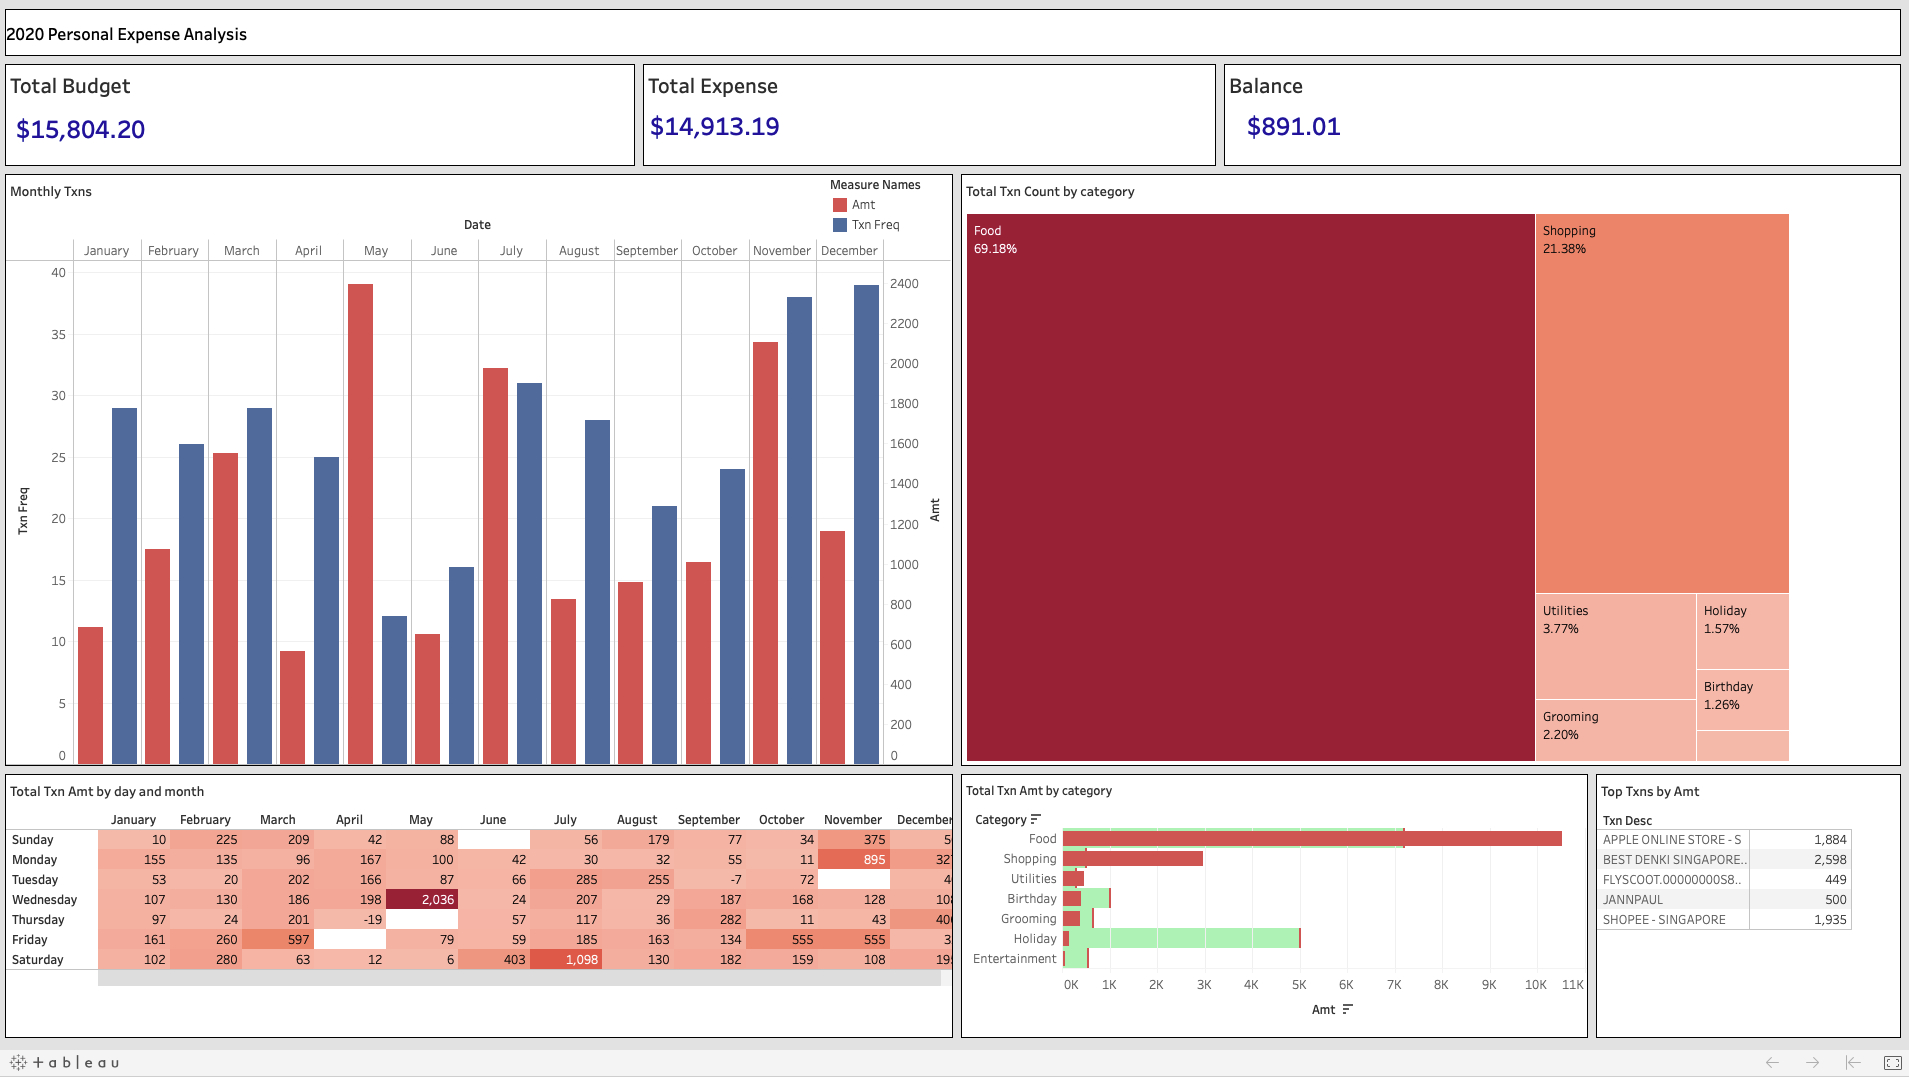
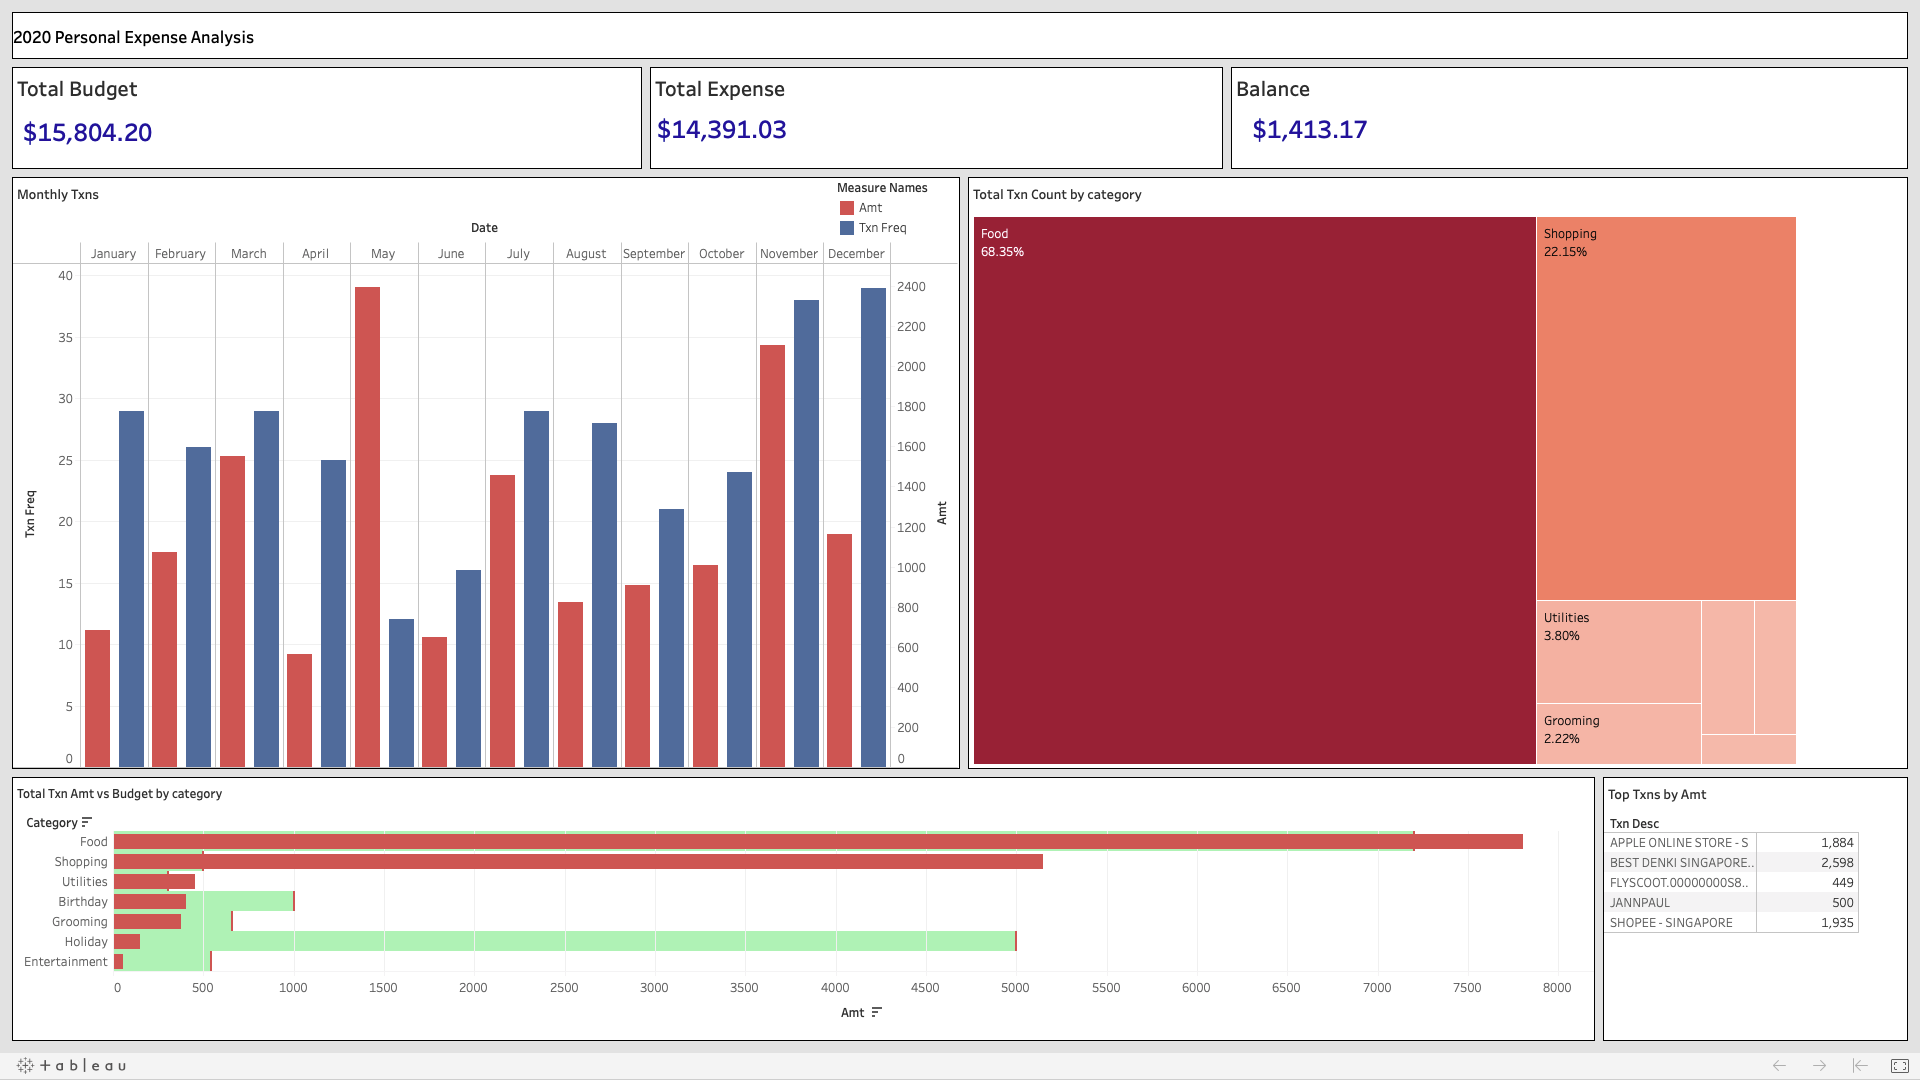
add conclusions

diff --git a/_posts/2020-1-1-Expense-Analysis.md b/_posts/2020-1-1-Expense-Analysis.md
@@ -316,29 +316,18 @@ We finally have a clean dataset to analyze the expenses. The resulting csv file 
 
 ![_config.yml]({{ site.baseurl }}/images/expense_dashboard.png)
 
-### Overall Balance
-A positive balance of $891 seems to suggest that 2020 is a rather frugal year for me, as I'd successfully managed to keep my expenses well below my budget. However, drawing such conclusions from a simple numerical measure can prove to be erroneous as spending might be highly concentrated on just a few categories such that the allocated budgets for other categories lessen the negative balances in these dominant ones. This phenomenon is apparent in this dashboard; up to an astonishing 91% of all expenses was spent on just food and shopping. This means that any fluctuation in just these 2 categories will lead to large swings in the overall health of the balance sheet, highlighting the importance of controlling the amount spent on these key cateogories to avoid being in the red.
+A positive balance of $1,872 seems to suggest that 2020 is a rather frugal year for me, as I'd successfully managed to keep my expenses well below my budget. However, drawing such conclusions from a simple numerical measure can prove to be erroneous as spending might be highly concentrated on just a few categories such that the allocated budgets for other categories lessen the negative balances in these dominant ones. This phenomenon is apparent in this dashboard; up to an astonishing 90% of all expenses was spent on just food and shopping. This means that any fluctuation in just these 2 categories will lead to large swings in the overall health of the balance sheet, highlighting the importance of controlling the amount spent on these key cateogories to avoid being in the red.
 
-If we look at how well each category spending fares in comparison to its corresponding budget, it is the same 2 categories that performed the worse. Spending on food is at 146% of its allocated budget, while shopping expense has exceeded the budget by almost 500%! The purchase of a new laptop explains the poor performance in the latter though (covering 64% of all shopping expenses), and performance here is rather subjective as the laptop purchase was a necessary evil because it is meant to be used for educational purposes.
+If we look at how well each category spending fares in comparison to its corresponding budget, it is the same 2 categories that performed the worse. Spending on food is at 108% of its allocated budget, while shopping expense has exceeded the budget by 8 times! The purchase of a new laptop (MacBook Pro, which costs $1,884) explains the poor performance in the latter though (covering 40% of all shopping expenses), and performance here is rather subjective as the laptop purchase was a necessary evil because it is meant to be used for educational purposes.
 
-Holiday category sees the best performance with cost savings at an impressive figure of 97%. However, I wouldn't see this as positive news as it was a mere result of circumstances, rather than an effortful control and monitoring of its budget. With COVID-19, most countries were forced to close its borders and suspend international travel, so travelling during the year wasn't even possible. 
+Holiday category sees the best performance with cost savings at an impressive figure of 97%. However, I wouldn't see this as positive news as it was a mere result of circumstances, rather than an effortful control and monitoring of its budget. With COVID-19, most countries were forced to close its borders and suspend international travel, so travelling during the year wasn't even possible.
 
+Another interesting observation can be made when categorical transactions are viewed in a time series. It is no coincidence that April, May and June witness the lowest spending in food, while at the same time shopping expenses exploded out of proportion. These months coincide with the Singapore's circuit breaker period, when the country was under partial lockdown and all citizens placed under stay-at-home order. Restaurant dining came to a halt while entertainment was channeled towards online shopping. 
+
+ ## Conclusion
+2020 is an abnormal year. The onslaught of COVID-19 has taken the world by surprise, and people have said that it has changed the way we live, work and play. This deviance from normalcy also applies to one's spending behaviour, and this dashboard may paint an entirely different picture in an alternate reality where COVID-19 didn't exist. However, 2021 may be no different as societies take time to adjust to the new normal, so perhaps it's safe to assume that this year's spending patterns are going to be similar than last year's. Therefore, the most important takeaway from all this is to start exercising prudent spending on food, while also tightening the budget for holidays as travel restrictions are likely to continue for most part of the new year.
+
+Thank you for reading until the end. The full set of codes has been published to my [repository](https://github.com/romejj/personal/blob/master/expense_analysis/pdf_parser.py) for those who are interested.
 <!-- 
-Talk about budget first
-Check month on month expenditure and count of transactions (on those periods of high txns, do we see high amt too?)
-Check counts of each category per month (interesting to see which months are the most fun by looking at count of entertainment)
 Check highest occurrence for each string
-Cumulative line graph for each category vs benchmark/budget
-Monthly growth rate
-
-Interesting findings:
-1. Above is bad too because we're not considering non-card transactions - Expense is prob more
-2. Txn freq doesn't correlate to total txn amt; holiday season saw the highest transactional count but amt is fairly stable around monthly average
-3. May is the season of spending; inflated because bought a personal Macbook for myself. Perhaps still the best investment made as I've been using it to hone my programming skills
-
-Takeaway:
-1. Try to contain all transactions in cards, so tracking is more accurate
- -->
-
-<!-- Code can be found here.
-Tableau dashboard can be found here. -->
+Monthly growth rate -->
